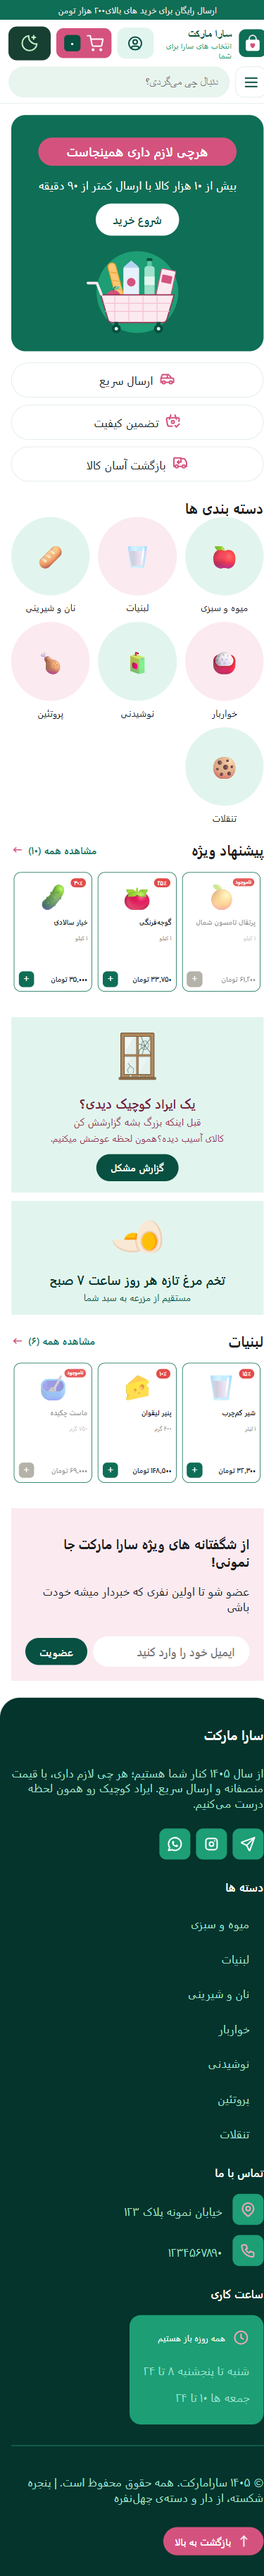
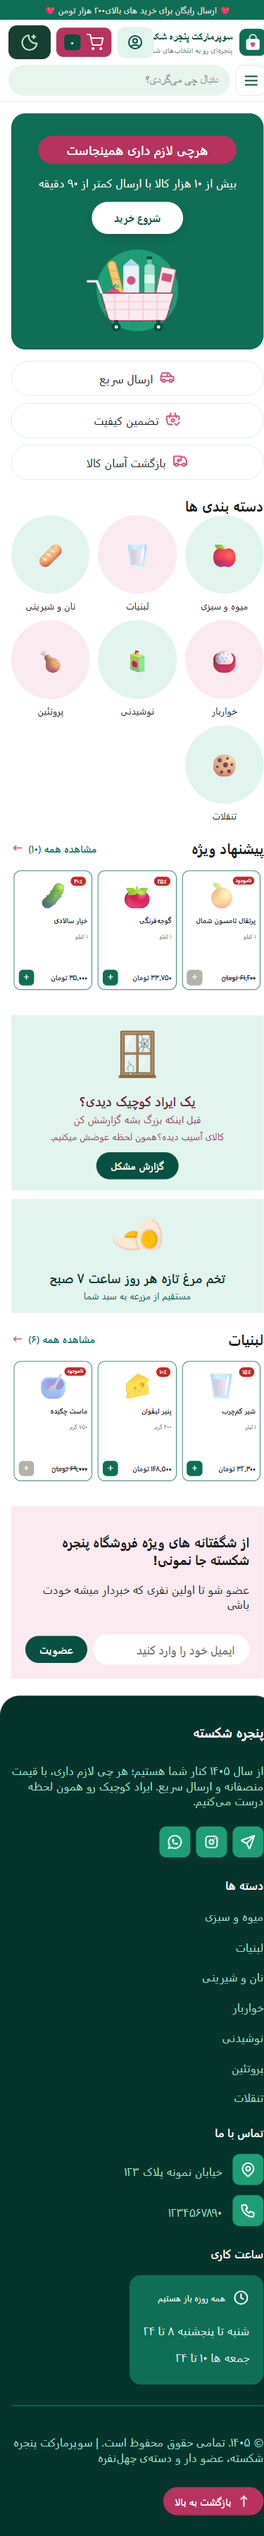
design updates for taking mobile screenshot

diff --git a/shops/broken-windows/style.css b/shops/broken-windows/style.css
@@ -1526,6 +1526,36 @@ background: #fff;
     padding: 0;
   }
 }
+@media (max-width: 600px) {
+  .brand {
+    width: 100%;
+    min-width: 0;
+    overflow: hidden;
+    gap: 6px;
+  }
+
+  .brand-info {
+    flex: 1 1 0;
+    width: 0;
+    min-width: 0;
+    overflow: hidden;
+  }
+
+  .brand-name {
+    max-width: 100%;
+    white-space: normal;
+    overflow-wrap: anywhere;
+    font-size: 14px;
+    line-height: 1.4;
+  }
+
+
+  .brand-text {
+    display: none;
+  }
+}
+
+
 
 .status {
   text-align: center; /* center the message */
@@ -1787,6 +1817,32 @@ background: #fff;
   list-style: none;
 }
 
+.cart-clear {
+  margin-right: auto;
+  padding: 6px 12px;
+  border: 1px solid color-mix(in srgb, var(--cart-danger) 35%, transparent);
+  border-radius: 999px;
+  background: transparent;
+  color: var(--cart-danger);
+  font-family: inherit;
+  font-size: 12px;
+  font-weight: 600;
+  cursor: pointer;
+  transition:
+    background 0.2s ease,
+    border-color 0.2s ease,
+    color 0.2s ease;
+}
+
+.cart-clear:hover {
+  background: color-mix(in srgb, var(--cart-danger) 10%, transparent);
+  border-color: var(--cart-danger);
+}
+
+.cart-clear:focus-visible {
+  outline: 2px solid var(--cart-danger);
+  outline-offset: 2px;
+}
 .cart-row {
   display: flex;
   align-items: center;
@@ -2369,7 +2425,6 @@ body:has(.app[data-theme="dark"]) {
 .footer-icon-openhours{
   stroke: #ffffff;
 }
-/* Notyf RTL layout */
 .notyf__toast {
   direction: rtl;
 }

diff --git a/shops/broken-windows/src/components/CartPanel.tsx b/shops/broken-windows/src/components/CartPanel.tsx
@@ -7,6 +7,7 @@ import { useCartStore } from "../hooks/useCartStore";
 export default function CartPanel() {
   const cart = useCartStore((s) => s.lines);
   const change = useCartStore((s) => s.change);
+  const clear = useCartStore((s) => s.clear);
 
   return (
     <aside className="cart-panel" id="cart-panel">
@@ -15,7 +16,16 @@ export default function CartPanel() {
           <h2 className="items-header">
             سبد خرید
             {cart.length > 0 && (
-              <span className="cart-items-count">{formatNumber(cartCount(cart))} کالا</span>
+              <>        <span className="cart-items-count">{formatNumber(cartCount(cart))} کالا</span>
+          
+              <button
+        type="button"
+        className="cart-clear"
+        onClick={clear}
+      >
+        خالی کردن سبد
+      </button>
+        </>
             )}
           </h2>
           {cart.length === 0 ? (

diff --git a/shops/broken-windows/src/components/FooterContact.tsx b/shops/broken-windows/src/components/FooterContact.tsx
@@ -12,7 +12,7 @@ export default function FooterContact(){
                                 <path
                                     d="M17.657 16.657l-4.243 4.243a2 2 0 0 1 -2.827 0l-4.244 -4.243a8 8 0 1 1 11.314 0" />
                             </svg></a>
-                        <address className="address">خیابان نمونه پلاک ۱۲۳</address>
+                        <address className="address">خیابان نمونه پلاک ۴۰</address>
                     </div>
                     <div className="footer-top-contact-phone">
                         <a href="#" aria-label="شماره تلفن پنجره شکسته"><svg aria-hidden="true"
